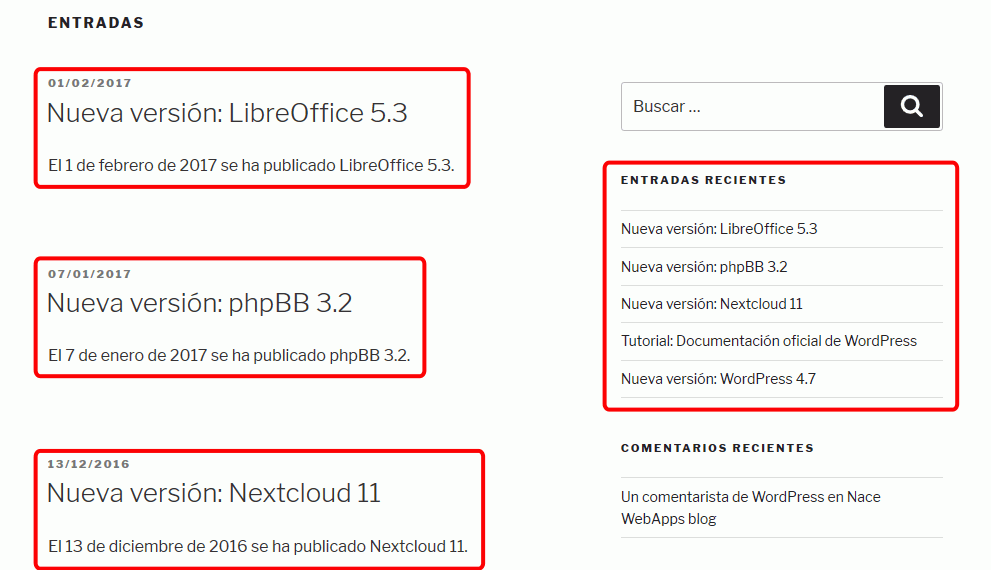
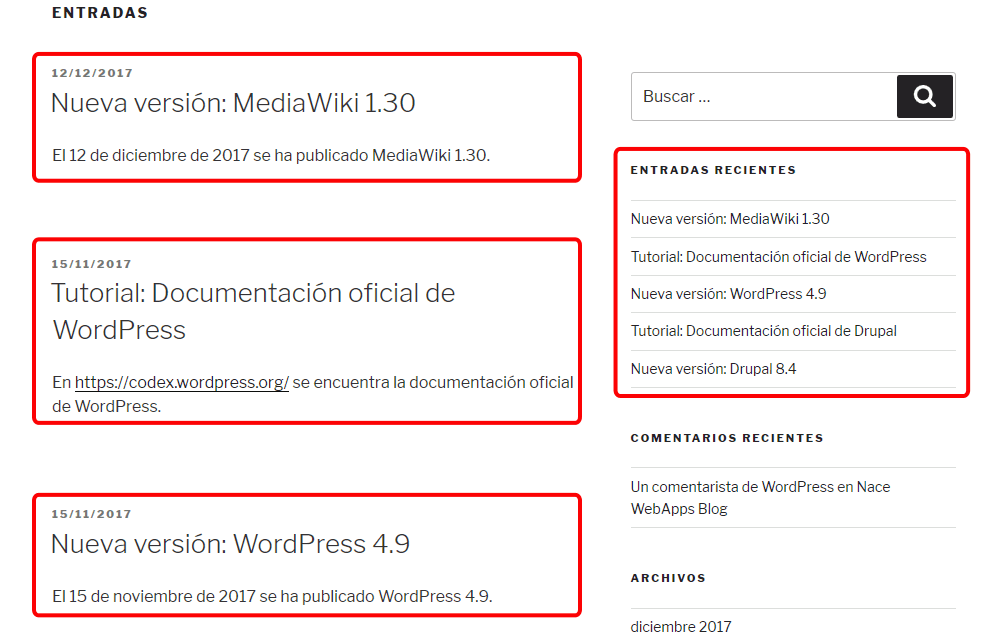
Sigo actualizando ejercicios y soluciones WordPress 2

diff --git a/lecciones/wordpress-2.html b/lecciones/wordpress-2.html
@@ -195,13 +195,13 @@
       <li>Cree siete entradas en el blog. Como el blog está dedicado a las aplicaciones web, las entradas pueden tratar temas como: la publicación de nuevas versiones de aplicaciones web, breves tutoriales sobre aplicaciones web, etc. Por ejemplo
         <ul>
           <li>Nueva versión: phpMyAdmin 4.7.0
-            <p>El 29 de marzo se ha publicado phpMyAdmin 4.7.0.</p>
+            <p>El 29 de marzo de 2017 se publicó phpMyAdmin 4.7.0.</p>
           </li>
           <li>Nueva versión: Nextcloud 12
-            <p>El 22 de mayo de 2017 se ha publicado Nextcloud 12.</p>
+            <p>El 22 de mayo de 2017 se publicó Nextcloud 12.</p>
           </li>
           <li>Nueva versión: OpenCart 3.0.0
-            <p>El 20 de junio de 2017 se ha publicado OpenCart 3.0.0.</p>
+            <p>El 20 de junio de 2017 se publicó OpenCart 3.0.0.</p>
           </li>
           <li>Nueva versión: Drupal 8.4
             <p>El 4 de octubre de 2017 se ha publicado Drupal 8.4.</p>
@@ -215,8 +215,11 @@
           <li>Tutorial: Documentación oficial de WordPress<br />
             <p>En <a href="https://codex.wordpress.org/">https://codex.wordpress.org/</a> se encuentra la documentación oficial de WordPress.</p>
           </li>
+          <li>Nueva versión: MediaWiki 1.30
+            <p>El 12 de diciembre de 2017 se ha publicado MediaWiki 1.30.</p>
+          </li>
         </ul>
-        <p class="captura"><img src="../img/wordpress/2-4-e-1-entradas.png" alt="WordPress. Entradas" width="991" height="570" /></p>
+        <p class="captura"><img src="../img/wordpress/2-4-e-1-entradas.png" alt="WordPress. Entradas" width="1008" height="640" /></p>
       </li>
       <li>Cambie la fecha de publicación de las novedades para que coincidan con el día de publicación de cada nueva versión.</li>
     </ul>
@@ -281,13 +284,13 @@
     <ul>
       <li>Cree las categorías: Novedades, Tutoriales, </li>
       <li>Cree las categorías Nueva versión y Actualización como subcategorías de Novedades</li>
-      <li>Cree las etiquetas: drupal, nextcloud, opencart, phpbb, wordpress, almacenamiento, cms, comercio electrónico, foro, novedad, tutorial</li>
+      <li>Cree las etiquetas: drupal, mediawiki, nextcloud, opencart, wordpress, almacenamiento, cms, comercio electrónico, novedad, tutorial</li>
       <li>Asocie las categorías y etiquetas a las entradas creadas</li>
     </ul>
   </section>
 
   <footer>
-    <p class="ultmod">Última modificación de esta página: 17 de enero de 2018</p>
+    <p class="ultmod">Última modificación de esta página: 18 de enero de 2018</p>
 
     <p class="licencia"><a rel="license" href="https://creativecommons.org/licenses/by-sa/4.0/deed.es_ES"><img src="../varios/iconos/icono-cc-by-sa.svg" alt="Licencia Creative Commons" title="Licencia Creative Commons BY-SA" width="120" height="42" /></a><br />
       Esta página forma parte del curso <strong><a href="http://www.mclibre.org/consultar/webapps/">Aplicaciones web</a></strong> por <a href="http://www.mclibre.org/" rel="author">Bartolomé Sintes Marco</a><br />

diff --git a/lecciones/wordpress-2-soluciones.html b/lecciones/wordpress-2-soluciones.html
@@ -48,7 +48,6 @@
       </ul>
     </div>
   </nav>
-  <p class="incompleto"><img src="../varios/iconos/icono-en-construccion.svg" alt="En construcción" title="En construcción" width="55" height="48" />Estas soluciones están pendientes de actualizar a los ejercicios propuestos en el curso 2017/18.</p>
 
   <p>En esta lección se proponen soluciones detalladas de los <a href="wordpress-2.html">ejercicios (2) de WordPress</a>. Se recomienda intentar realizarlos primero sin recurrir a estas soluciones.</p>
 
@@ -118,7 +117,15 @@
   <section id="ejercicio-4">
     <h2>WordPress (2) 4 - Entradas</h2>
 
-    <p class="incompleto"><img src="../varios/iconos/icono-en-construccion.svg" alt="En construcción" title="En construcción" width="55" height="48" />Por escribir</p>
+    <p>Las entradas se pueden crear en Escritorio &gt; Entradas &gt; Añadir nuevas.</p>
+
+    <p>Una vez creadas las entradas, se pueden editar en Escritorio &gt; Todas las entradas &gt;</p>
+
+    <p>Situando el cursor sobre la fila de una entrada, se muestran opciones para editar la entrada:</p>
+    <ul>
+      <li>La opción <strong>Edición rápida</strong> permite cambiar varios elementos de una entrada: el título, la fecha, las etiquetas, etc.</li>
+      <li>La opción <strong>Editar</strong> permite cambiar cualquier elemento de la entrada.</li>
+    </ul>
   </section>
 
   <section id="ejercicio-5">
@@ -148,7 +155,7 @@
   </section>
 
   <footer>
-    <p class="ultmod">Última modificación de esta página: 17 de enero de 2018</p>
+    <p class="ultmod">Última modificación de esta página: 18 de enero de 2018</p>
 
     <p class="licencia"><a rel="license" href="https://creativecommons.org/licenses/by-sa/4.0/deed.es_ES"><img src="../varios/iconos/icono-cc-by-sa.svg" alt="Licencia Creative Commons" title="Licencia Creative Commons BY-SA" width="120" height="42" /></a><br />
       Esta página forma parte del curso <strong><a href="http://www.mclibre.org/consultar/webapps/">Aplicaciones web</a></strong> por <a href="http://www.mclibre.org/" rel="author">Bartolomé Sintes Marco</a><br />

diff --git a/lecciones/wordpress.html b/lecciones/wordpress.html
@@ -205,6 +205,7 @@
       <li><a href="https://wwwhatsnew.com/2015/12/16/infografia-sobre-el-uso-de-wordpress-en-espanol/">Infografía sobre el estado de WordPress (diciembre 2015)</a></li>
       <li><a href="http://www.wpbeginner.com/news/the-history-of-wordpress/">Historia de WordPress hasta 2014</a></li>
       <li>Matt Mullenweg: State of the Word: <a href="https://www.youtube.com/watch?v=XOY3ZUO6P0k">2017</a> - <a href="https://www.youtube.com/watch?v=Nl6U7UotA-M">2016</a> - <a href="https://www.youtube.com/watch?v=PqTwwT0cvA0">2015</a> - <a href="https://www.youtube.com/watch?v=gfbT2dlhiFk">2014</a> - <a href="https://www.youtube.com/watch?v=4OczuAfRZyc">2013</a> - <a href="https://www.youtube.com/watch?v=z02oBvI15H0">2012</a> - <a href="https://www.youtube.com/watch?v=vZjs-pDBizQ">2011</a> - <a href="https://www.youtube.com/watch?v=GNDUD6TYIuQ">2010</a> -<a href="https://www.youtube.com/watch?v=Aw3yylKZT-w">2009</a></li>
+      <li><a href="https://make.wordpress.org/">Información sobre el desarrollo de WordPress</a></li>
     </ul>
   </section>
 
@@ -263,7 +264,7 @@
   </section>
 
   <footer>
-    <p class="ultmod">Última modificación de esta página: 17 de enero de 2018</p>
+    <p class="ultmod">Última modificación de esta página: 18 de enero de 2018</p>
 
     <p class="licencia"><a rel="license" href="https://creativecommons.org/licenses/by-sa/4.0/deed.es_ES"><img src="../varios/iconos/icono-cc-by-sa.svg" alt="Licencia Creative Commons" title="Licencia Creative Commons BY-SA" width="120" height="42" /></a><br />
       Esta página forma parte del curso <strong><a href="http://www.mclibre.org/consultar/webapps/">Aplicaciones web</a></strong> por <a href="http://www.mclibre.org/" rel="author">Bartolomé Sintes Marco</a><br />

diff --git a/index.html b/index.html
@@ -205,7 +205,7 @@
   </div>
 
   <footer>
-    <p class="ultmod">Última modificación de alguna página de este curso: 17 de enero de 2018</p>
+    <p class="ultmod">Última modificación de alguna página de este curso: 18 de enero de 2018</p>
 
     <p class="licencia"><a rel="license" href="https://creativecommons.org/licenses/by-sa/4.0/deed.es_ES"><img src="varios/iconos/icono-cc-by-sa.svg" alt="Licencia Creative Commons" title="Licencia Creative Commons BY-SA" width="120" height="42" /></a><br />
       Esta página forma parte del curso <strong><a href="http://www.mclibre.org/consultar/webapps/">Aplicaciones web</a></strong> por <a href="http://www.mclibre.org/" rel="author">Bartolomé Sintes Marco</a><br />
